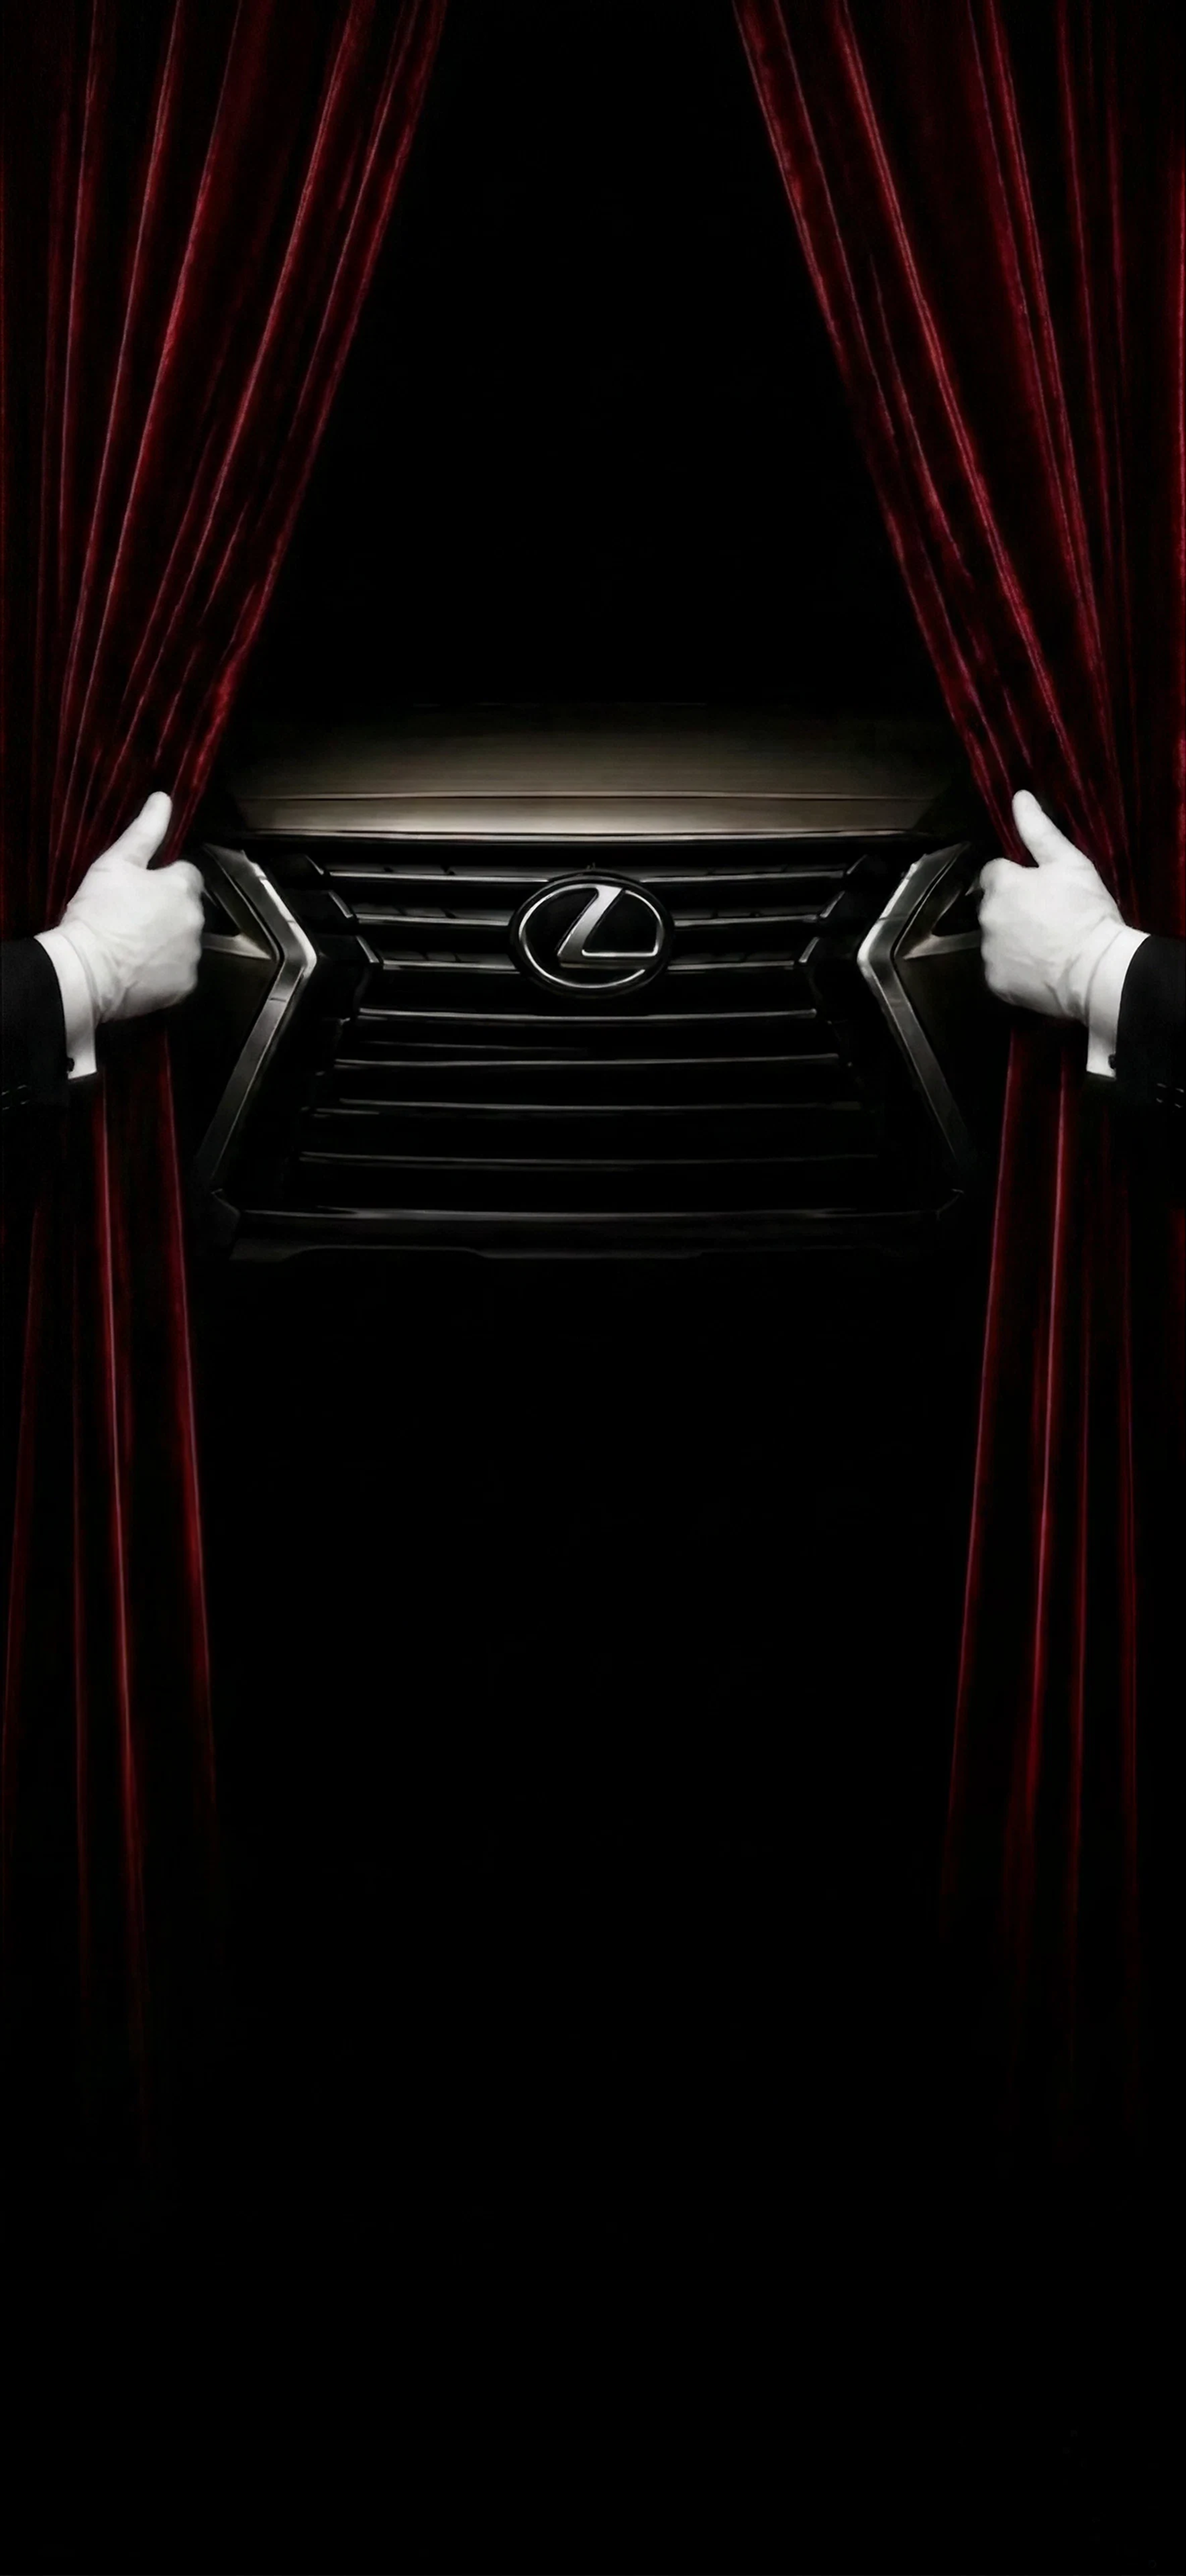
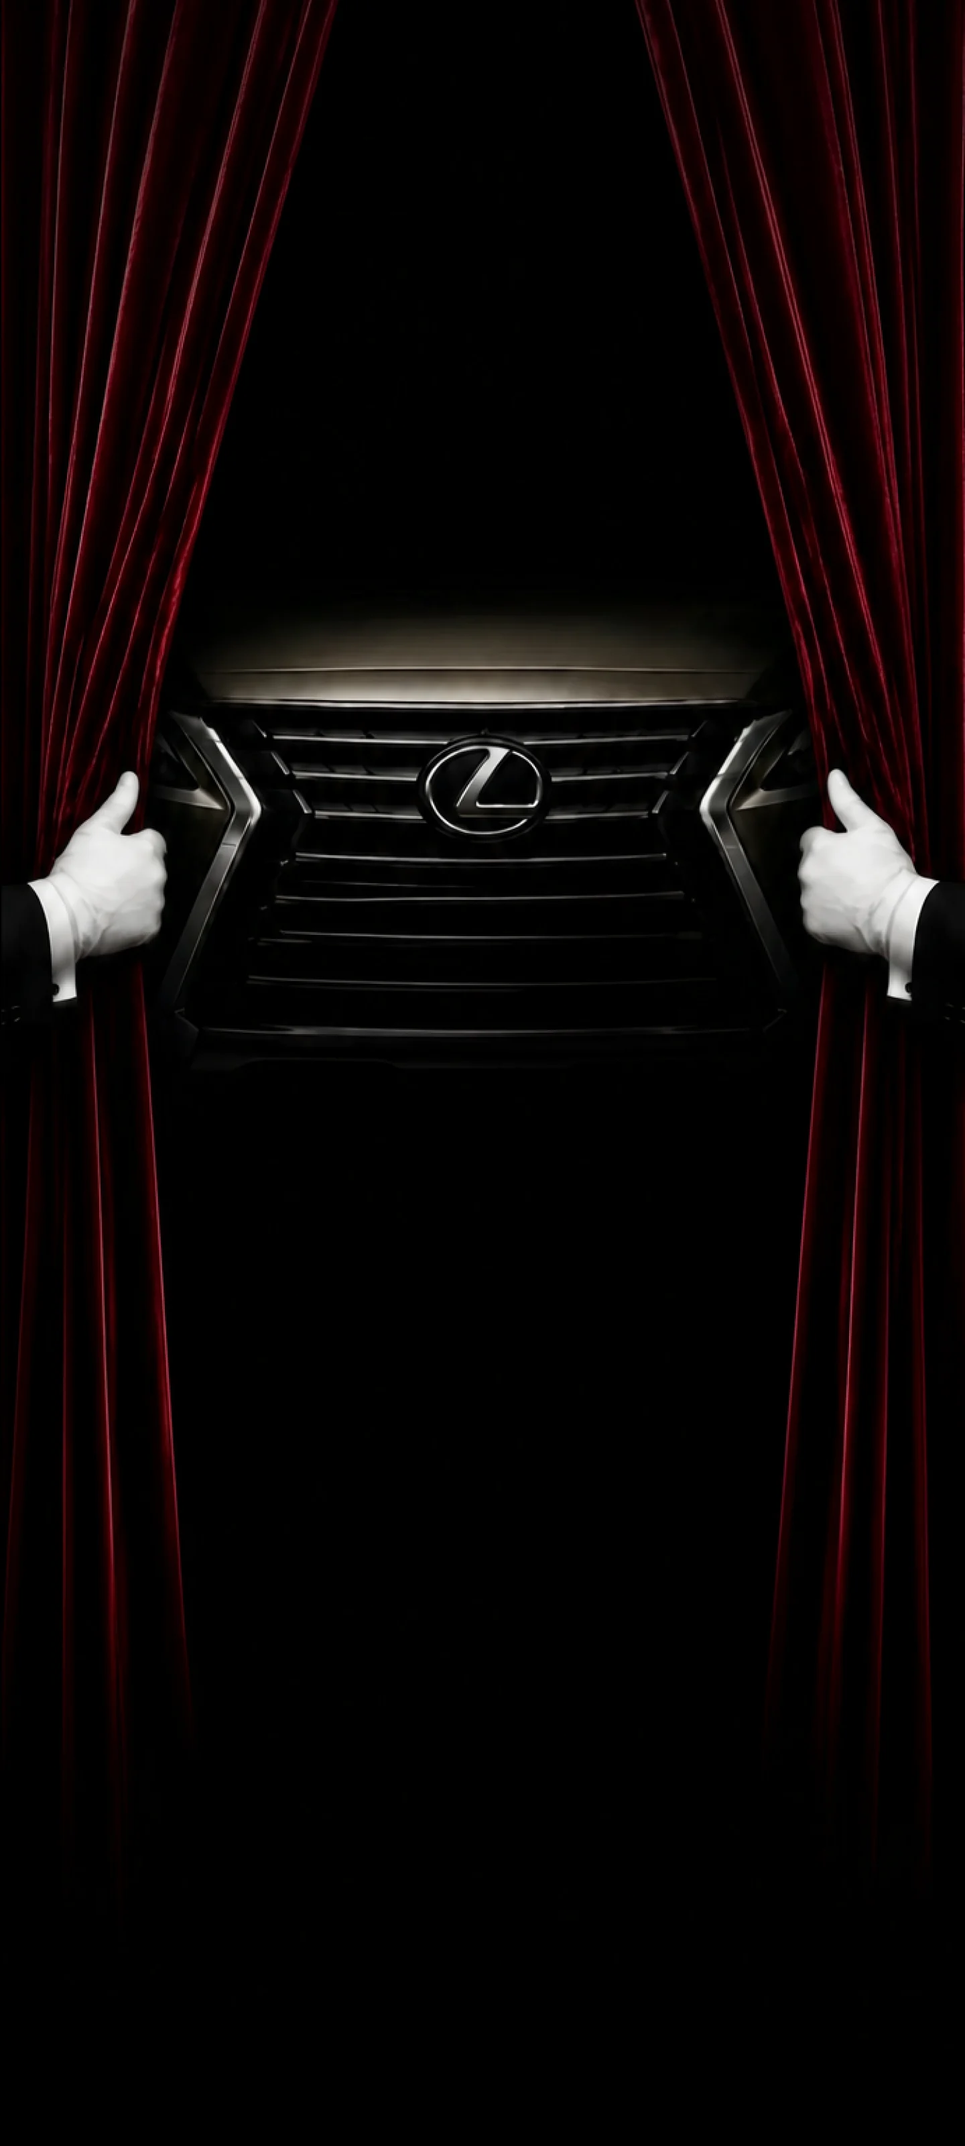
feat: new intro screen shots and light from the headlights
The background images for Toyota and Lexus are taken from mockups 34:2044 /
34:2090 / 34:2134: Toyota has a different car (the new generation Land
Cruiser), Lexus has the hands lowered below the headlights. The scene
calibration is recomputed for the new shots - the hood sits at 28.4%, the
bottom edge of the car at 50.5%.

In the space freed up around the headlights there is now a separate light
layer: a halo, a core on the optics itself and a beam to the side. Positions
are derived from the frame size, so the light stays on the headlights at any
cover crop. The tint is warm for Lexus and cold LED for the Land Cruiser.

diff --git a/src/views/welcome/WelcomeScreen.module.scss b/src/views/welcome/WelcomeScreen.module.scss
@@ -1,7 +1,7 @@
 @use 'shared/config/tokens' as t;
 @use 'shared/config/fluid' as f;
 
-// Первый экран собирается по вертикали как гибкая колонка, а не по фиксированным
+// Пе  рвый экран собирается по вертикали как гибкая колонка, а не по фиксированным
 // координатам макета: между шапкой и блоком приглашения стоит распорка, которая
 // съедает всю свободную высоту. На 800px раскладка совпадает с Figma, на 568px
 // сжимается до читаемого минимума и никуда не уезжает.
@@ -13,13 +13,18 @@
   color: rgba(255, 255, 255, 0.8);
   font-family: t.$font-condensed;
 
+  // Размер кадра на экране после cover: по ширине сцены, а на узком и высоком
+  // экране — по высоте. От этих двух величин считается всё остальное, поэтому
+  // они заданы явно, а не выведены из отдельных коэффициентов.
+  --stage-w: max(min(100vw, 480px), calc(100svh * 0.45));
+  --stage-h: max(calc(min(100vw, 480px) / 0.45), 100svh);
   // Где на экране заканчивается автомобиль — от этой отметки считается всё
-  // остальное. Кадр приколот к верхнему краю, cover масштабирует его по
-  // ширине сцены (или по высоте, если экран выше кадра), а нижняя кромка
-  // машины в исходнике стоит на 49.625%.
-  --car-raw: max(calc(min(100vw, 480px) * 1.1028), 49.625svh);
-  // Верхняя кромка капота в том же кадре — 26.5%.
-  --car-top: calc(var(--car-raw) * 0.534);
+  // остальное. Кадр приколот к верхнему краю, а нижняя кромка машины в новых
+  // кадрах (Lexus с опущенными руками и Land Cruiser) стоит на 50.5%; 50.75%
+  // оставляет ту же тонкую полоску воздуха, что была у прошлых кадров.
+  --car-raw: calc(var(--stage-h) * 0.5075);
+  // Верхняя кромка капота в том же кадре — 28.4%.
+  --car-top: calc(var(--stage-h) * 0.284);
   // Высота шапки: та же линейная привязка, что и у её собственных размеров.
   --brand-h: #{f.vh(145, 171)};
   // Сколько кадра нужно увести за верхний край, чтобы под машиной поместилась
@@ -30,6 +35,13 @@
   --stage-room: calc(var(--car-top) - var(--brand-h) - 12px);
   --stage-shift: clamp(0px, min(max(var(--stage-need), 16px), var(--stage-room)), 140px);
   --car-bottom: calc(var(--car-raw) - var(--stage-shift));
+  // Фары стоят на 36.8% высоты кадра и на 20.5%/79.5% его ширины. Кадр
+  // отцентрован по горизонтали и поднят на --stage-shift, поэтому свет
+  // пересчитывается теми же двумя величинами, что и сам автомобиль.
+  --lamp-y: calc(var(--stage-h) * 0.368 - var(--stage-shift));
+  --lamp-dx: calc(var(--stage-w) * 0.295);
+  // Оттенок света: у Lexus фары тёплые, у Land Cruiser — холодные диодные.
+  --lamp-tint: 255, 238, 205;
 
   &[data-ready='false'] {
 
@@ -107,8 +119,10 @@
 
   &::after {
     background-position: left top;
-    clip-path: polygon(0 28%, 31% 29%, 57% 34%, 53% 42%, 20% 44%, 0 42%);
-    mask-image: radial-gradient(ellipse 42% 13% at 27% 36%, #000 25%, transparent 82%);
+    // Руки в новых кадрах опущены под фары: вырез и маска сдвинуты вниз на
+    // те же 4.5% кадра, на которые уехали перчатки.
+    clip-path: polygon(0 32.5%, 31% 33.5%, 57% 38.5%, 53% 46.5%, 20% 48.5%, 0 46.5%);
+    mask-image: radial-gradient(ellipse 42% 13% at 27% 40.5%, #000 25%, transparent 82%);
     transform: translateX(54%);
   }
 }
@@ -121,8 +135,8 @@
 
   &::after {
     background-position: right top;
-    clip-path: polygon(100% 28%, 69% 29%, 43% 34%, 47% 42%, 80% 44%, 100% 42%);
-    mask-image: radial-gradient(ellipse 42% 13% at 73% 36%, #000 25%, transparent 82%);
+    clip-path: polygon(100% 32.5%, 69% 33.5%, 43% 38.5%, 47% 46.5%, 80% 48.5%, 100% 46.5%);
+    mask-image: radial-gradient(ellipse 42% 13% at 73% 40.5%, #000 25%, transparent 82%);
     transform: translateX(-54%);
   }
 }
@@ -241,6 +255,127 @@
     background: radial-gradient(circle at 50% 45%, rgba(228, 204, 174, 0.09), transparent 35%);
     animation: welcome-light 7s ease-in-out infinite alternate;
   }
+}
+
+// Свет из фар. В новых кадрах вокруг фар специально оставлено пустое место, и
+// свечение рисуется поверх фотографии в режиме screen: чёрный фон он не
+// осветляет, а хром решётки и складки занавеса — да.
+.lamps {
+  position: absolute;
+  inset: 0;
+  left: 50%;
+  right: auto;
+  width: min(100%, 480px);
+  transform: translateX(-50%);
+  mix-blend-mode: screen;
+  pointer-events: none;
+}
+
+// Каждая фара — два слоя: плотное ядро на самой оптике и широкий ореол,
+// который уходит в темноту. Они дышат в одном такте, но с разным размахом,
+// поэтому свет не выглядит равномерно мигающим.
+.lamp {
+  position: absolute;
+  top: var(--lamp-y);
+  width: calc(var(--stage-w) * 0.62);
+  height: calc(var(--stage-h) * 0.2);
+  transform: translate(-50%, -50%);
+  background: radial-gradient(closest-side ellipse,
+      rgba(var(--lamp-tint), 0.3),
+      rgba(var(--lamp-tint), 0.13) 32%,
+      rgba(var(--lamp-tint), 0.04) 58%,
+      transparent 78%);
+  animation: lamp-halo 6.4s ease-in-out infinite;
+  will-change: opacity, transform;
+
+  // Ядро: узкая горячая полоса ровно по оптике.
+  &::before {
+    content: '';
+    position: absolute;
+    left: 50%;
+    top: 50%;
+    width: calc(var(--stage-w) * 0.2);
+    height: calc(var(--stage-h) * 0.035);
+    border-radius: 50%;
+    background: radial-gradient(closest-side ellipse,
+        rgba(var(--lamp-tint), 0.72),
+        rgba(var(--lamp-tint), 0.28) 45%,
+        transparent 100%);
+    transform: translate(-50%, -50%);
+    animation: lamp-core 6.4s ease-in-out infinite;
+  }
+
+  // Луч: свет уходит вниз и в сторону, как от фары в дыму сцены.
+  &::after {
+    content: '';
+    position: absolute;
+    left: 50%;
+    top: 50%;
+    width: calc(var(--stage-w) * 0.34);
+    height: calc(var(--stage-h) * 0.13);
+    background: linear-gradient(180deg, rgba(var(--lamp-tint), 0.16), transparent 72%);
+    filter: blur(10px);
+    animation: lamp-core 6.4s ease-in-out infinite;
+  }
+}
+
+.lampLeft {
+  left: calc(50% - var(--lamp-dx));
+
+  &::after {
+    transform: translate(-50%, 0) skewX(16deg);
+  }
+}
+
+.lampRight {
+  left: calc(50% + var(--lamp-dx));
+  // Правая фара светит в противофазе на полтакта: пара перестаёт выглядеть
+  // одной мигающей лампой на две стороны.
+  animation-delay: -2.1s;
+
+  &::before,
+  &::after {
+    animation-delay: -2.1s;
+  }
+
+  &::after {
+    transform: translate(-50%, 0) skewX(-16deg);
+  }
+}
+
+@keyframes lamp-halo {
+
+  0%,
+  100% {
+    opacity: 0.62;
+    transform: translate(-50%, -50%) scale(0.94);
+  }
+
+  50% {
+    opacity: 1;
+    transform: translate(-50%, -50%) scale(1.06);
+  }
+}
+
+@keyframes lamp-core {
+
+  0%,
+  100% {
+    opacity: 0.7;
+  }
+
+  46% {
+    opacity: 1;
+  }
+
+  62% {
+    opacity: 0.86;
+  }
+}
+
+// Холодная диодная оптика Land Cruiser против тёплой у Lexus.
+.screen[data-brand='toyota'] {
+  --lamp-tint: 222, 240, 255;
 }
 
 // Высота колонки жёсткая, а не минимальная: только так безопасная зона может
@@ -638,7 +773,10 @@
   .stage::before,
   .spark::after,
   .benefits svg,
-  .cta {
+  .cta,
+  .lamp,
+  .lamp::before,
+  .lamp::after {
     animation: none;
   }
 }

diff --git a/src/views/welcome/WelcomeScreen.tsx b/src/views/welcome/WelcomeScreen.tsx
@@ -54,6 +54,14 @@ export function WelcomeScreen({ brand = 'both' }: { brand?: BrandVariant }) {
 
       <div className={styles.stage} aria-hidden />
 
+      {/* Свет из фар живёт отдельным слоем: у кадра он выключен, а на экране
+          дышит поверх фотографии. Позиции считаются от размеров кадра, так что
+          свет не отрывается от оптики при любом обрезе cover. */}
+      <div className={styles.lamps} aria-hidden>
+        <span className={`${styles.lamp} ${styles.lampLeft}`} />
+        <span className={`${styles.lamp} ${styles.lampRight}`} />
+      </div>
+
       <div className={styles.content}>
         <header className={styles.brand}>
           <Image
